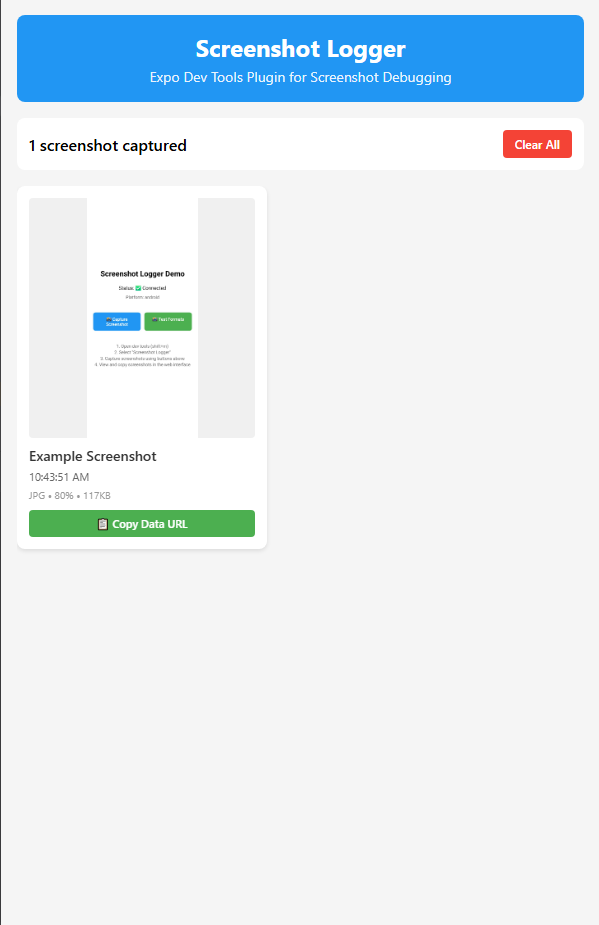
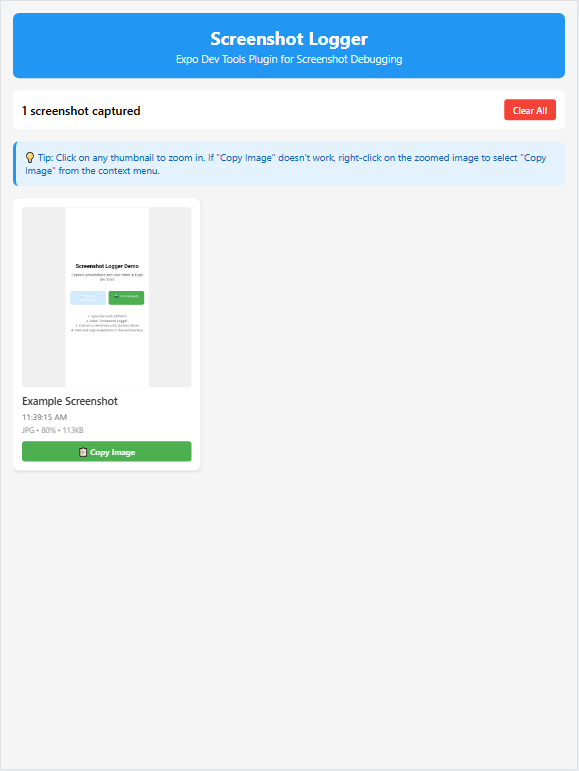
update example app and README

Changed region(s): [[0.0, 0.0, 0.9948, 0.249], [0.0311, 0.4669, 0.4352, 0.6226], [0.1244, 0.2802, 0.342, 0.4358]]

diff --git a/README.md b/README.md
@@ -1,6 +1,6 @@
 # 📸 Expo Screenshot Logger
 
-An Expo dev tools plugin for capturing and viewing React Native screenshots in your browser for easy sharing and debugging with AI assistants.
+An Expo dev tools plugin for capturing and viewing React Native screenshots in your browser for easy sharing or debugging with AI assistants.
 
 ## ✨ Features
 
@@ -12,8 +12,18 @@ An Expo dev tools plugin for capturing and viewing React Native screenshots in y
 - 🖼 **High Quality** - Support for PNG/JPG with customizable quality settings
 
 ### Screenshots
+These screenshots are of the tool capturing screenshots of the example app (see /example).
+
+Initial load of the expo-screenshot-logger dev tool plugin:
+
 ![start.png](screenshots/start.png)
+
+We have now captured a screenshot of our example app and we can see it in our dev tool:
+
 ![captured.png](screenshots/captured.png)
+
+We can click on the image to zoom-in and copy to our clipboard for sharing:
+
 ![zoomed-in.png](screenshots/zoomed-in.png)
 
 ## 🚀 Quick Start
@@ -52,6 +62,8 @@ const handleScreenshot = async () => {
 ```
 
 **Complete Example:**
+
+Here we have set up a touchable text component (could be a header) as a discreet way of capturing screenshots from our app:
 ```javascript
 import React from 'react';
 import { TouchableOpacity, Text } from 'react-native';
@@ -65,7 +77,7 @@ export function MyComponent({ title }) {
 
   return (
     <TouchableOpacity onPress={handleTitlePress}>
-      <Text>📸 {title}</Text>
+      <Text>{title}</Text>
     </TouchableOpacity>
   );
 }
@@ -80,7 +92,7 @@ export function MyComponent({ title }) {
 5. **Copy images**: 
    - Click "📋 Copy Image" button, OR
    - Click on any thumbnail to zoom in, then right-click and select "Copy Image" from context menu
-6. **Share with AI**: Paste directly into messaging apps or AI assistants like Claude, ChatGPT, etc.
+6. **Share**: Paste directly into messaging apps or AI assistants like Claude, ChatGPT, etc.
 
 ## 🤝 Contributing
 
